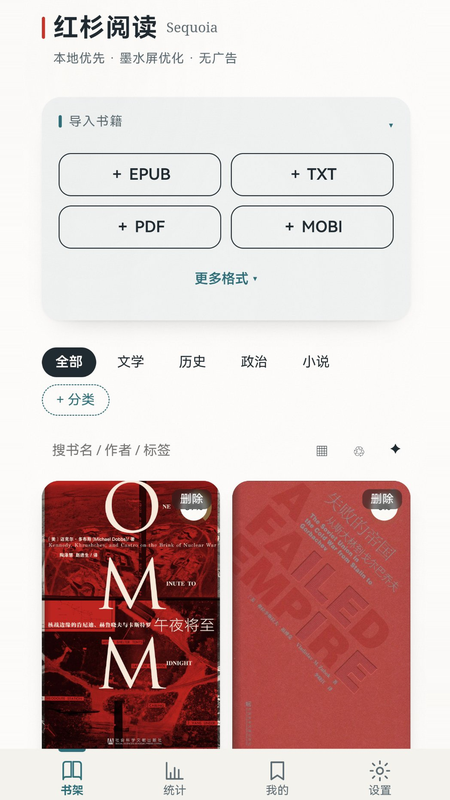
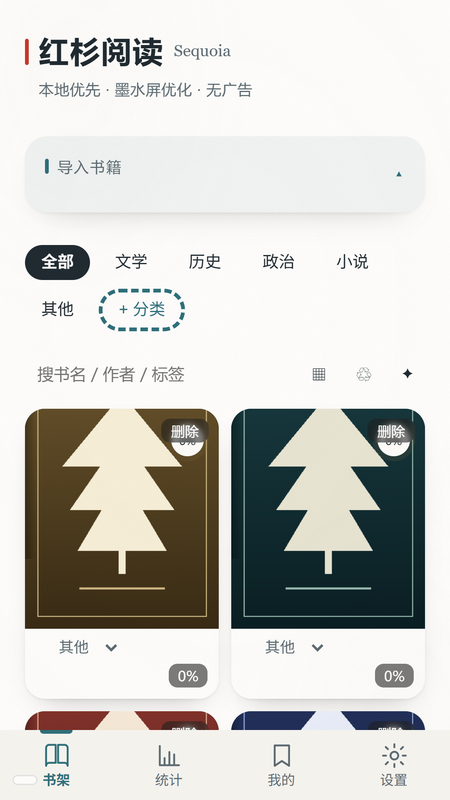
fix(release): 提审截图规避第三方出版物版权风险，保留有数据的真实界面
- 结论：不使用空列表。审核指南 1.9 禁止截图「无法体现实际内容」，3.4 要求功能
  已实现可用，官方论坛把「空白页面/功能不完整」列为高频驳回项；空书架还会丢掉
  阅读器排版与统计的展示，风险反而更大。
- 真实风险是书源而非「有数据」：指南 9.1/8.4 知识产权、1.16 第三方信息。
  本 App 不内置不分发书籍（用户本地导入），严格说 9.1 不适用，但真实出版物封面
  + 作者名 + 出版社标识易被误判为 App 提供内容，可能拖一轮补件。
- 最终提交组合：01-shelf / 02-reader 改用 capture_agc_shots.mjs 生成的虚构书版
  （自制杉树封面 + 自写正文，零第三方元素，仍是真实 UI 渲染非设计稿）；
  03-stats / 04-settings 保留用户真机改造版（本就不含书名、封面、正文）。
  两套规格目录同步替换，校验尺寸精确 9:16、全部 ≤2MB、md5 唯一。
- 手册 §3.1 新增「最终提交组合」与不使用空列表的条款依据、恢复全真机版方法；
  §8 驳回速查加版权追问与空列表两条；§9 自检加对应检查项；风险段改为仅剩两处小瑕疵。

diff --git a/docs/华为AGC提交操作手册.md b/docs/华为AGC提交操作手册.md
@@ -154,6 +154,19 @@
 
 4 张内容：`01-shelf.png` 书架 / `02-reader.png` 阅读器正文 / `03-stats.png` 阅读统计 / `04-settings.png` 设置。真机原图留档在 `screenshots/agc/device-original/`。
 
+**✅ 最终提交组合（2026-11-11 定稿，已规避版权风险）**：
+
+| 文件 | 来源 | 为什么 |
+|---|---|---|
+| `01-shelf.png` / `02-reader.png` | `shot-01-shelf.png` / `shot-02-reader.png`（`capture_agc_shots.mjs` 真实 UI 渲染） | 虚构书名 + 自制杉树封面 + 自写正文，**零第三方出版物 / 出版社标识**，规避审核指南 9.1 / 8.4 / 1.16 的误解风险 |
+| `03-stats.png` / `04-settings.png` | 用户真机截图改造版 | 这两张本来就不含书名、封面或正文，只有数字与控件，可放心用真机图 |
+
+> ❓ **为什么不用空书架**：审核指南 **1.9** 明确禁止截图「无法体现实际内容」，**3.4** 要求功能已实现且可用；官方论坛把「空白页面 / 功能不完整 / 截图无法体现实际内容」列为高频驳回项。空列表还会同时丢掉阅读器排版、统计、设置等核心卖点的展示，**风险远大于「有书」**。
+>
+> ⚖ **关于版权**：本 App 不内置、不分发任何书籍，书由用户本地导入，严格说指南 9.1「应用内使用他人版权内容须事先获得授权」并不适用；但真实出版物封面 + 作者名 + 出版社标识容易让审核员误以为 App 提供该内容，可能要求补授权说明、拖一轮补件。换成虚构演示数据即可彻底消除，且仍是**真实应用界面**（真实 UI 渲染，非设计稿、非 P 图）。
+>
+> 🔄 **想恢复全真机版**：在真机导入一本自己写的 TXT 或公版书（别用商业出版物），重截书架与正文两张，覆盖 `device-original/` 后跑 `python scripts/prepare_agc_shots.py` 重建。注意当前两套 `submit-*` 目录里的 01/02 已换成虚构书版，脚本只重建真机版，不会自动覆盖它们。
+
 **处理方式**（`scripts/prepare_agc_shots.py`，可重复运行）：
 - 真机原图状态栏里有其他 App「**迷雾**」的媒体悬浮通知 —— 属 1.16 第三方/无关内容，是明确驳回项。逐行像素实测该黑色胶囊占 `y=21..84`，故裁掉状态栏 `95px`（试过 80px 会残留 5px 黑色下沿）；书架原图无状态栏则不裁顶部。
 - 裁掉底部系统手势导航条 `55px`。
@@ -161,9 +174,9 @@
 - 全程只做裁剪 / 等比缩放 / 画布延展，**不拉伸、不压缩变形、不 P 图、不改画面内容**。
 - 已校验：4 张尺寸精确 9:16、全部 ≤2MB、`md5` 互不相同、顶部深色残留像素 = 0。
 
-**⚠ 仍需注意的两点风险（不擅自改，避免变成 P 图）：**
-1. 书架那张是**真实出版物封面**（含出版社标识），阅读器正文也是真实书籍内容。这是用户本地导入的书、属应用正常功能，但若审核质疑第三方内容，改用 `screenshots/agc/shot-01..06-*.png` —— 那套是 `scripts/capture_agc_shots.mjs` 用真实 UI 渲染 + 虚构书籍/自制封面生成的 6 屏（同样是 1080×1920、无状态栏、无第三方元素），可直接替换书架与正文两张。
-2. 书架卡片上有「删除」浮层（App 自身编辑态 UI）。若想去掉，需在真机上点空白处收起后重截；**更彻底的做法**：在系统设置里关掉「迷雾」的通知/悬浮窗，清干净通知栏后重新截 4 张原图，再跑一次脚本即可保留更原生的画面。
+**⚠ 剩余两点小瑕疵（不擅自改，避免变成 P 图）：**
+1. 书架卡片上有「删除」浮层（App 自身编辑态 UI）、`+ 分类` 带虚线焦点圈。都不是违规项；若想去掉，需在真机点空白处收起后重截。
+2. 若希望保留系统状态栏，需先在系统设置里关掉「迷雾」的通知 / 悬浮窗，清干净通知栏后重截 4 张原图再跑脚本。
 
 ❌ 永久禁用：`screenshots/drawer*.png`、`emulator_v145_drawer.png` 等 —— 是**系统应用抽屉**（有 "Search apps"、Calendar / Camera 图标），提交必被驳回。
 
@@ -277,6 +290,8 @@
 | AI 功能未声明或与包内不符 | §4 第 10 项声明「无 AI 功能」 |
 | 截图含系统桌面 / 其他 App 通知 / 其他品牌 / 其他商店 | 已裁掉状态栏（含「迷雾」悬浮通知）与手势条；只交 §3.1 四张，**绝不交 `drawer*.png`** |
 | 截图尺寸 / 分辨率不符 | 上传页若提示 `450×800` 用 `submit-450x800/`，若接受 `1080×1920` 用高清版 |
+| 截图含真实出版物封面 / 出版社标识，被追问版权授权 | 01/02 已换成虚构书版；必要时说明「App 不内置不分发书籍，书由用户本地导入」，并附 §6 单机说明 |
+| 交空书架 / 空白页，被判「无法体现实际内容」「功能不完整」 | 必须是有数据的真实界面；**不要为了躲版权把列表清空**，见 §3.1 |
 | 应用名与 APK / 图标文字不一致 | 三处统一 `红杉阅读` |
 | 内容分级问卷乱填 | 如实按阅读类填写 |
 | 功能不完整 / 按钮点了没反应 | 提审前真机走一遍导入 → 阅读 → 设置 → 统计 |
@@ -293,6 +308,7 @@
 - [ ] 应用名 / 图标 / 简介 / 详述已填，图标用 `screenshots/agc/icon-216.png`
 - [ ] **3–5 张不同内容的应用内截图**已从 §3.1 两套目录中按上传页提示选一套上传，未使用 `drawer*.png`
 - [ ] 截图已确认不含「迷雾」等其他 App 通知、无拉伸 / 模糊 / 显示不完整，标题与底部 tab 均完整
+- [ ] 截图是**有数据的真实界面**（非空列表 / 空白页），且不含真实出版物封面、作者名、出版社标识；01/02 用虚构书版
 - [ ] 隐私政策网址 + 隐私权利网址都已填，均为 200
 - [ ] 权限说明两条话术已填，隐私标签全选「不收集」
 - [ ] AI 功能声明为「无 AI 功能」
